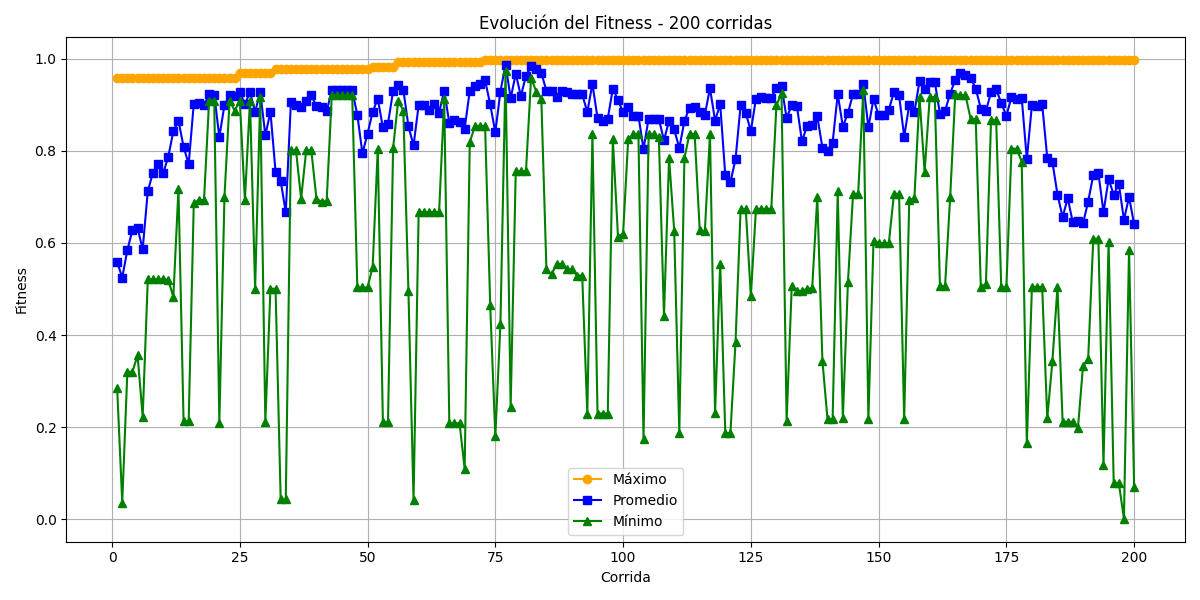
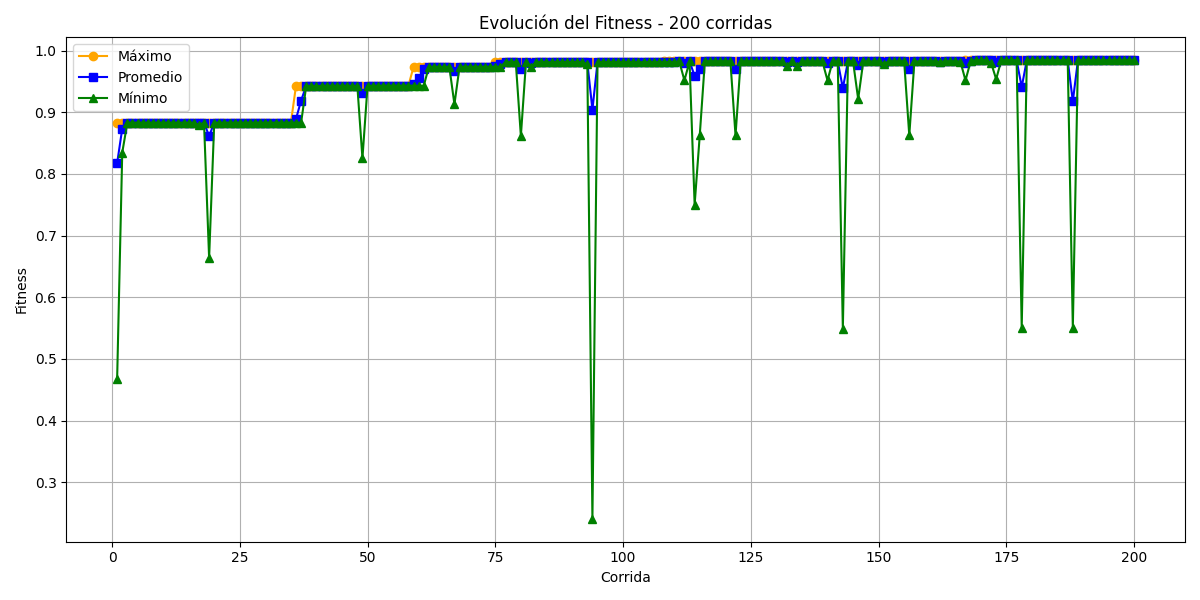
correcciones generales en clase

diff --git a/tp1/ag_canonico.py b/tp1/ag_canonico.py
@@ -19,13 +19,13 @@ def decimal_to_binary(n):
     return format(n, f'0{BIT_LENGTH}b')
 
 def funcion_objetivo(x):
-    return (x / COEF)**2
+    return round((x / COEF)**2,10)
 
 def obtener_fitnesses(funcion_objetivo_values):
     
     sumatoria_function_values = sum(funcion_objetivo_values)
     
-    fitness_values = [f / sumatoria_function_values for f in funcion_objetivo_values]
+    fitness_values = [round(f / sumatoria_function_values, 10) for f in funcion_objetivo_values]
     
     #Debugging
     print("Sumatoria de fitness (debe dar 1):", sum(fitness_values))
@@ -54,21 +54,25 @@ def roulette_wheel_selection(pop, fitnesses):
             #Sino, vuelve al ciclo y sigue buscando a quien le corresponde el número aleatorio
     return seleccionados
 
-def torneo_binario_probabilistico(pop, fitnesses, prob_mejor=0.8): #hay un 80% de probabilidad de que el mejor sea el padre
+def torneo_binario_probabilistico(pop, fitnesses):
     #Elegimos dos individuos al azar
     i1 = random.randint(0, len(pop) - 1)
     i2 = random.randint(0, len(pop) - 1)
-    #Comparamos sus fitnesses
-    if fitnesses[i1] > fitnesses[i2]:
-        mejor, peor = i1, i2
-    else:
-        mejor, peor = i2, i1
+    i3 = random.randint(0, len(pop) - 1)
+    i4 = random.randint(0, len(pop) - 1)
 
-    #Elegimos al mejor o al peor dependiendo de la probabilidad dada
-    if random.random() < prob_mejor:
-        return pop[mejor]
-    else:
-        return pop[peor]
+    #Comparamos sus fitnesses
+      # Determinamos el mejor y el peor entre los cuatro usando ifs
+    mejor = i1
+    if fitnesses[i2] > fitnesses[mejor]:
+        mejor = i2
+    if fitnesses[i3] > fitnesses[mejor]:
+        mejor = i3
+    if fitnesses[i4] > fitnesses[mejor]:
+        mejor = i4
+    
+    return pop[mejor]
+    
 
 def one_point_crossover(parent1, parent2):
     if random.random() < CROSSOVER_PROB:
@@ -143,20 +147,14 @@ def evolve(pop, metodo_seleccion, elitismo):
         # Obtener los individuos élite a partir de sus índices
         elite_individuals = [pop[i] for i in elite_indices]
 
-        # Crear nuevos arrays excluyendo a los individuos élite
-        indices_elite_set = set(elite_indices)
-        pop_filtrada = [ind for i, ind in enumerate(pop) if i not in indices_elite_set]
-        fit_values_filtrados = [fit for i, fit in enumerate(fit_values) if i not in indices_elite_set]
 
-        #Entonces, nos aseguramos que los hijos restantes no sean los mismos que los de élite
-
-        #Genera los 8 hijos restantes
+        #Luego, genera los 8 hijos restantes
         num_hijos_necesarios = POPULATION_SIZE - len(elite_individuals)
 
         if metodo_seleccion == 'r':  
             seleccionados = []                                                           
             while len(seleccionados) < num_hijos_necesarios:
-                nuevos = roulette_wheel_selection(pop_filtrada, fit_values_filtrados)
+                nuevos = roulette_wheel_selection(pop, fit_values)
                 seleccionados.extend(nuevos)
             seleccionados = seleccionados[:num_hijos_necesarios] # Me aseguro de que len(seleccionados) ≥ num_hijos_necesarios y está bien definido cuando num_hijos_necesarios es impar.
 
@@ -172,15 +170,15 @@ def evolve(pop, metodo_seleccion, elitismo):
         elif metodo_seleccion == 't':
             next_generation = []
             for _ in range(num_hijos_necesarios  // 2):
-                padre1 = torneo_binario_probabilistico(pop_filtrada, fit_values_filtrados)
-                padre2 = torneo_binario_probabilistico(pop_filtrada, fit_values_filtrados)
+                padre1 = torneo_binario_probabilistico(pop, fit_values)
+                padre2 = torneo_binario_probabilistico(pop, fit_values)
                 hijo1, hijo2 = one_point_crossover(padre1, padre2)
                 next_generation.extend([mutation(hijo1), mutation(hijo2)])
             
             # Si num_hijos_necesarios es impar, generamos un último hijo
             if num_hijos_necesarios % 2 == 1:
-                padre1 = torneo_binario_probabilistico(pop_filtrada, fit_values_filtrados)
-                padre2 = torneo_binario_probabilistico(pop_filtrada, fit_values_filtrados)
+                padre1 = torneo_binario_probabilistico(pop, fit_values)
+                padre2 = torneo_binario_probabilistico(pop, fit_values)
                 hijo1, _ = one_point_crossover(padre1, padre2)
                 next_generation.append(mutation(hijo1))
             
@@ -199,9 +197,9 @@ def evolve(pop, metodo_seleccion, elitismo):
 
 def save_table_as_image(max_v, avg_v, min_v, corridas, max_chromosomes):
     
-    max_v_rounded = [round(val, 5) for val in max_v]
-    avg_v_rounded = [round(val, 5) for val in avg_v]
-    min_v_rounded = [round(val, 5) for val in min_v]
+    max_v_rounded = [round(val, 10) for val in max_v]
+    avg_v_rounded = [round(val, 10) for val in avg_v]
+    min_v_rounded = [round(val, 10) for val in min_v]
 
     data = {
         "Corrida": list(range(1, corridas + 1)),
